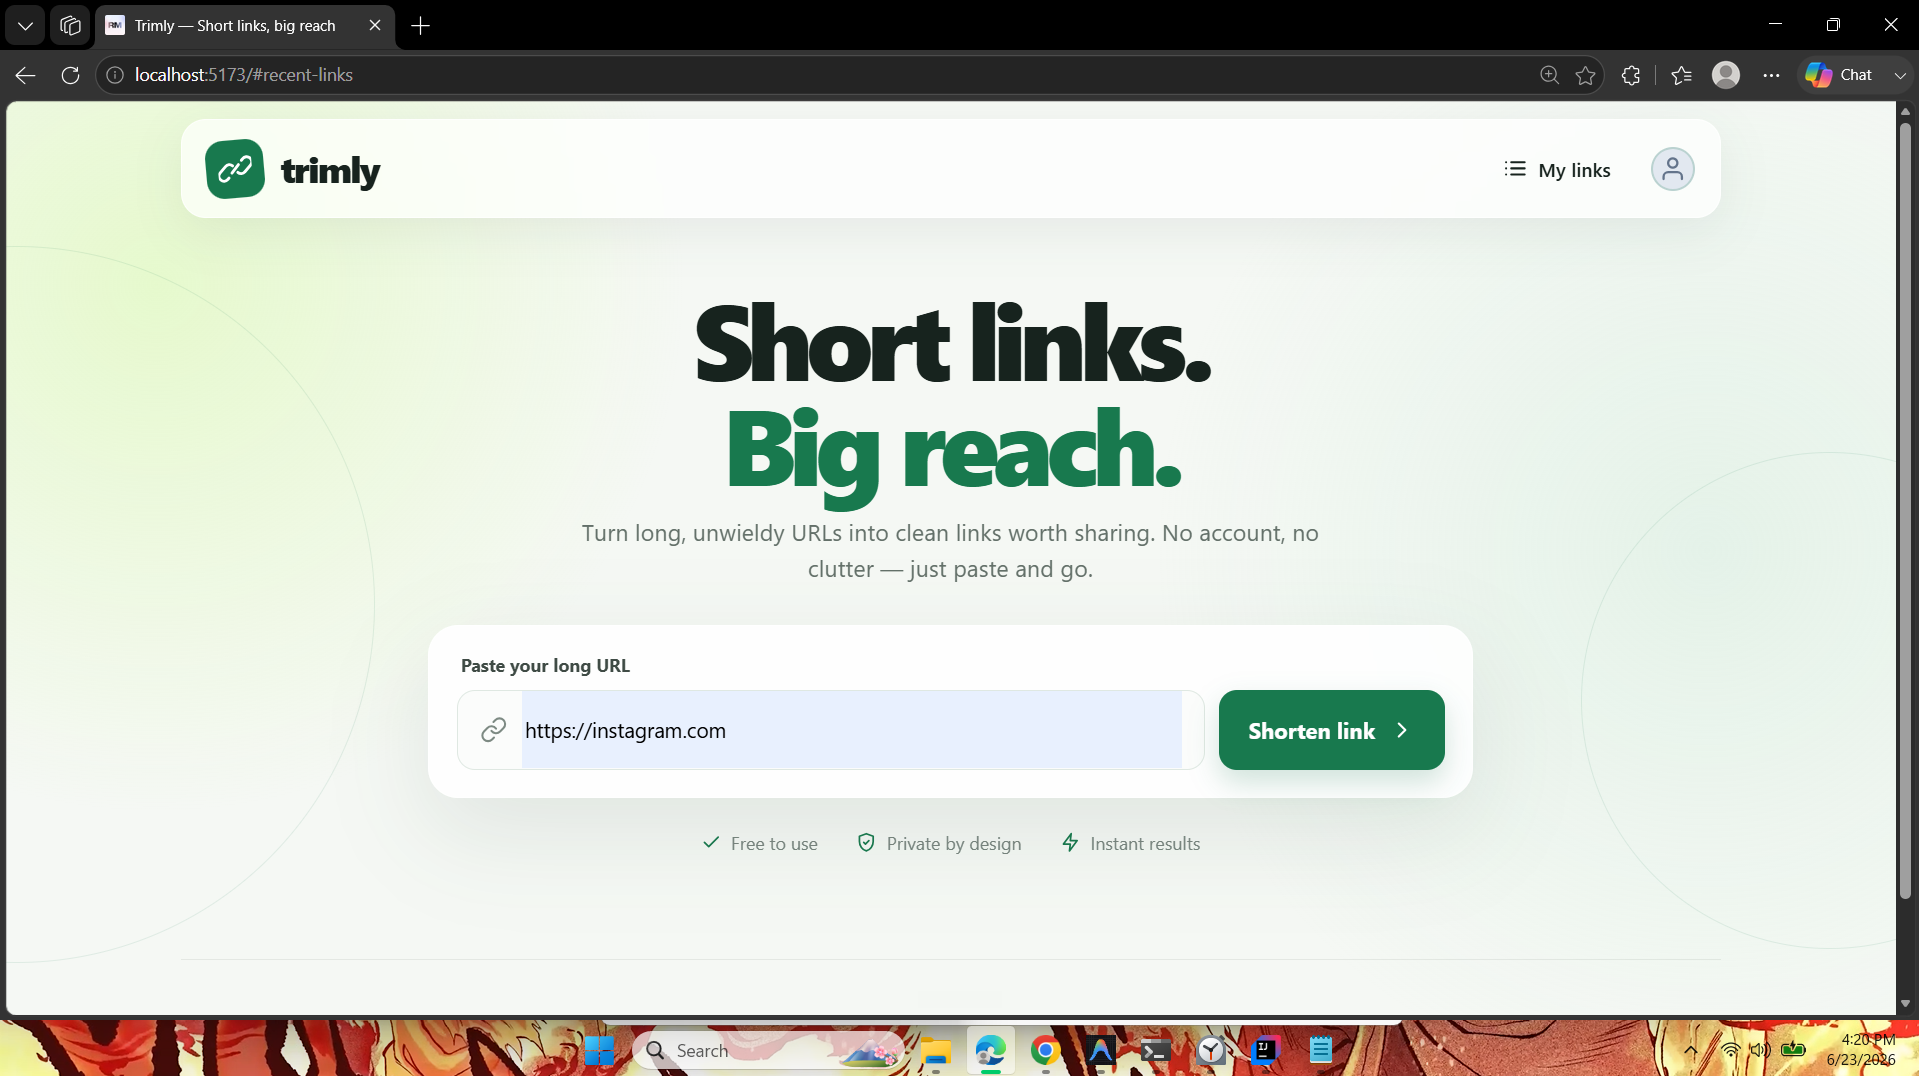
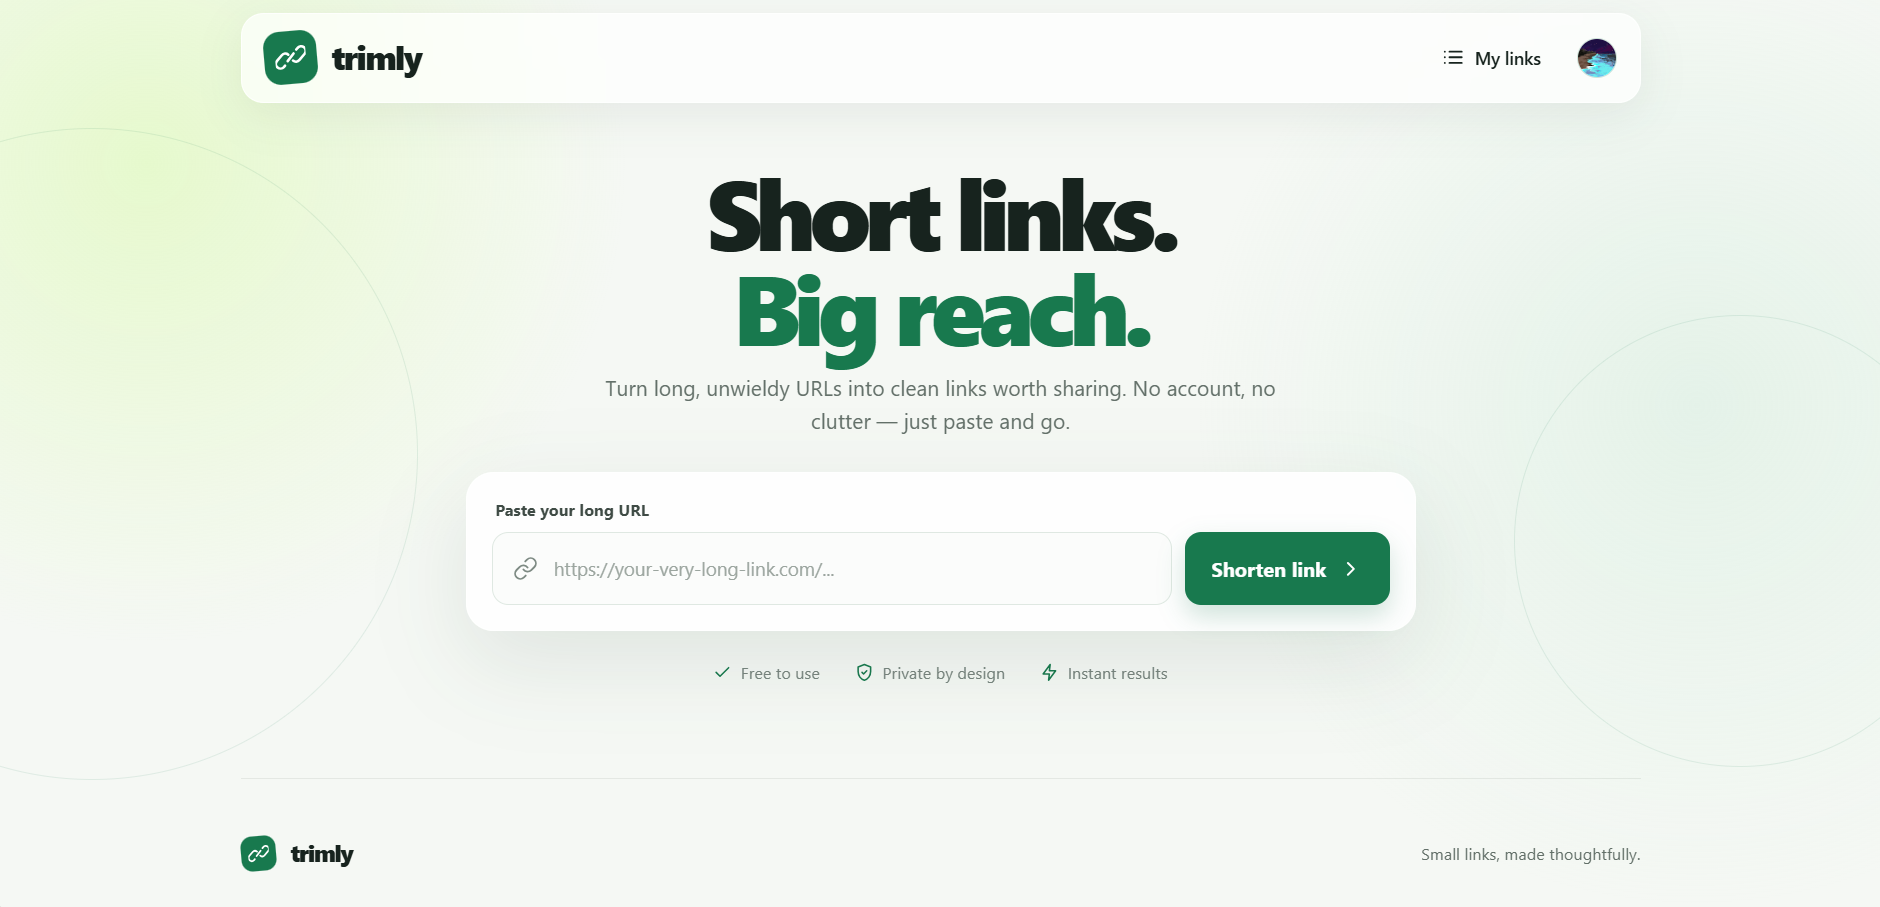
image opacity

diff --git a/app/components/ProjectCarousel.tsx b/app/components/ProjectCarousel.tsx
@@ -60,10 +60,10 @@ export default function ProjectCarousel({ projects }: { projects: Project[] }) {
                   <img
                     src={project.image}
                     alt={project.name}
-                    className="w-full h-full object-cover"
+                    className="w-full h-full object-cover opacity-30"
                   />
                   {/* Overlay to ensure text readability */}
-                  <div className="absolute inset-0 bg-ink/75" />
+                  <div className="absolute inset-0 bg-gradient-to-t from-ink/90 via-ink/60 to-ink/90" />
                 </div>
               )}
 

diff --git a/app/content.ts b/app/content.ts
@@ -59,7 +59,7 @@ export const projects = [
     name: "PeerLink (2025)",
     role: "Creator",
     detail: "A framework-less peer-to-peer backend built from scratch to explore low-level networking, custom HTTP parsing, and concurrent TCP file transfers.",
-    image: "https://images.unsplash.com/photo-1550745165-9bc0b252726f?q=80&w=1200&auto=format&fit=crop",
+    image: "/assets/peerLink.png",
     github: "https://github.com/haardiksagar",
     link: "https://github.com",
     techStack: "C++ (ASIO)"
@@ -68,7 +68,7 @@ export const projects = [
     name: "Trimly (2026)",
     role: "Creator",
     detail: "A production-style URL shortening service featuring stateless authentication, rate limiting, analytics, and scalable backend architecture.",
-    image: "https://images.unsplash.com/photo-1460925895917-afdab827c52f?q=80&w=1200&auto=format&fit=crop",
+    image: "/assets/Trimly.png",
     github: "https://github.com/haardiksagar",
     link: "https://github.com",
     techStack: "GO / REDIS"